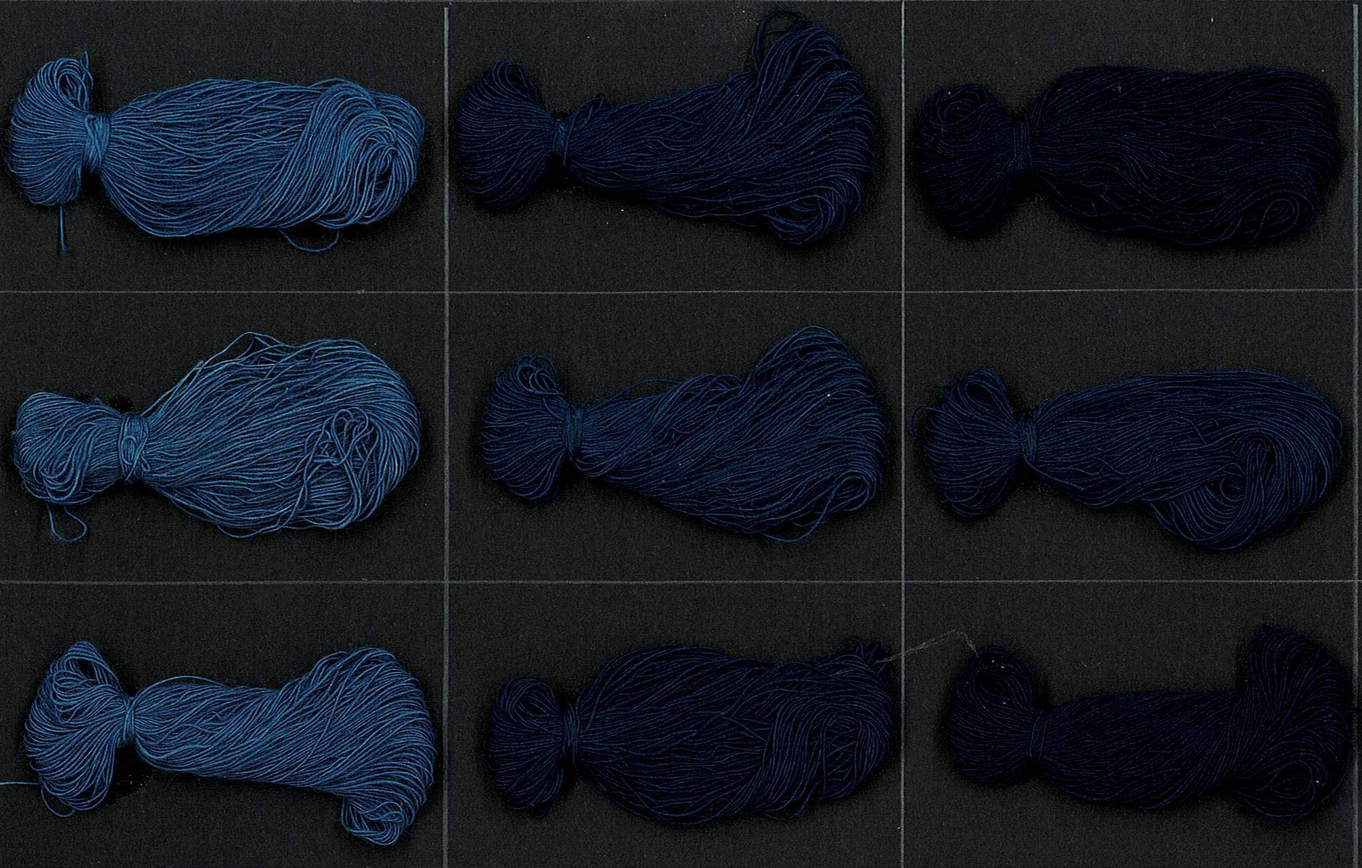
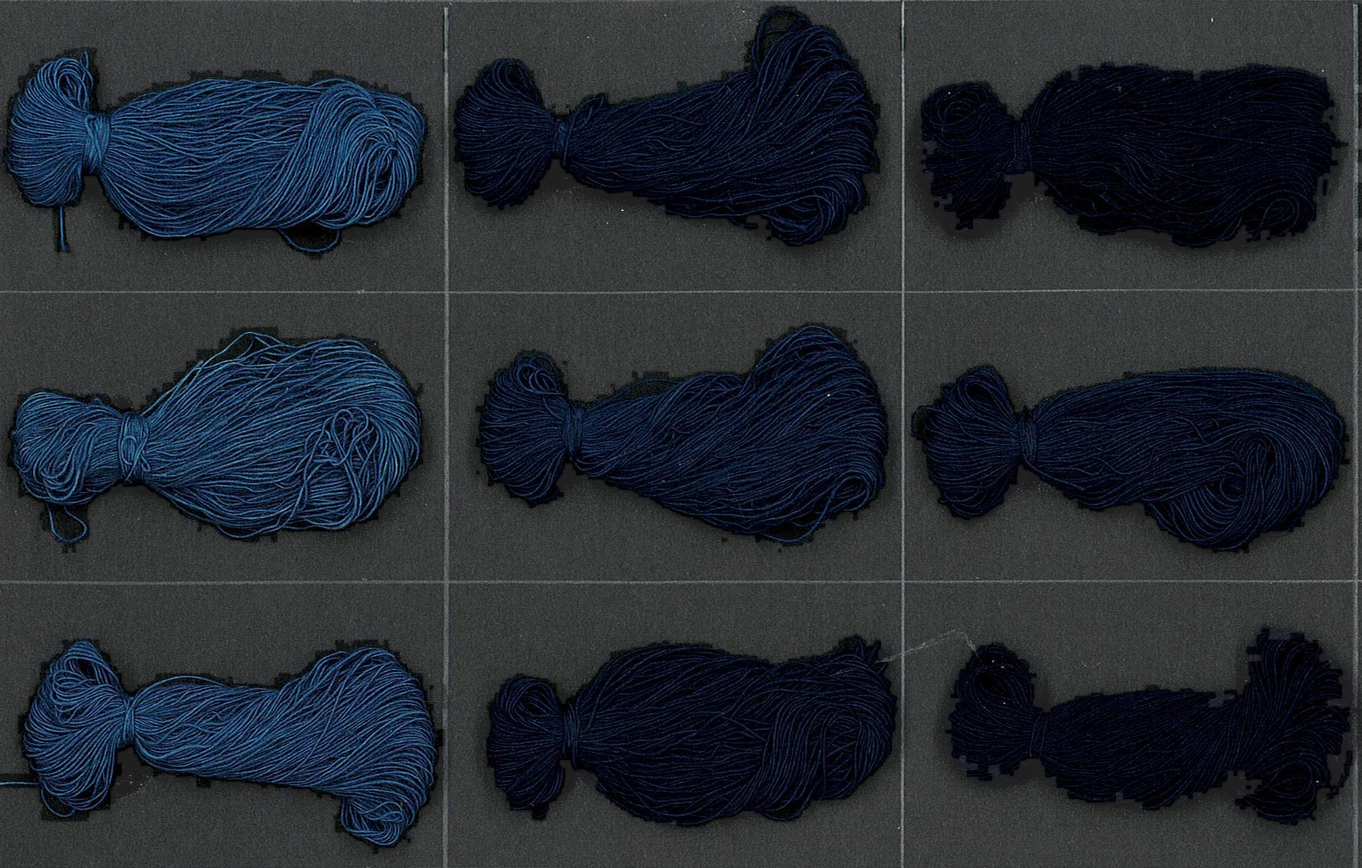
feat(dyeing): 실타래 비교 사진의 바탕만 약간 밝게 조정한다
- 고객 요청(2026-10-05, "실타래 배경이 어두운 색인데 약간 밝게"). scripts/brighten-skein-background.mjs 가 고객 원본 PNG 에서
  실타래 덩어리(채도>10 픽셀을 5px 팽창 · 구멍 메움 · 3px 침식)를 뺀 바탕만 채널당 +30 밝힌다(평균 밝기 31 → 61). 실타래 표본
  구역의 변화는 채널당 1 미만이며 실의 색은 손대지 않는다. 결과를 skeins-1-3-5-dips.webp 로 다시 저장한다.
- 캡션(Products.skeinCaption, 일곱 언어)에 바탕만 조정했고 실의 색은 손대지 않았음을 밝히고, 출처 기록(CLIENT_IMAGES · asset-manifest)과
  docs/blugene-visual-assets.md 11절 · docs/blugene-claims.md 에 처리 방법을 적는다.

diff --git a/src/components/blugene/SkeinComparison.tsx b/src/components/blugene/SkeinComparison.tsx
@@ -9,7 +9,8 @@ import { SKEIN_COMPARISON } from '@/data/blugene/dyedYarn';
  * 이 사이트의 방식으로 옮겼다. 사진은 SVG 에 내장된 무손실 PNG(1952×1244)를 꺼내 WebP 로 바꿔 두고, 열 이름(침염 횟수)과
  * 행 이름(시료)은 messages(SkeinComparison.*)에서 읽어 일곱 언어로 번역된다. 꾸러미의 영어 · 일본어 표기를 그대로 따랐다.
  * - 사진 속 3×3 칸은 가로 · 세로 모두 3등분이므로, 열 이름은 사진 폭을 3등분한 자리에, 행 이름은 사진 높이를 3등분한 자리에 놓는다.
- * - 색 비교 사진이라 next/image 재인코딩 없이(unoptimized) 그대로 보여 준다. 배경이 어두운 것은 원본 사진 그대로다.
+ * - 색 비교 사진이라 next/image 재인코딩 없이(unoptimized) 그대로 보여 준다. 바탕(실타래 주변의 어두운 판)은 2026-10-05 고객 요청으로
+ *   채널당 +30 밝게 조정했고 실 영역은 무변환이다(scripts/brighten-skein-background.mjs, 캡션에 밝힘).
  * - 시료 표기(Blugene 1 · Blugene 2)는 꾸러미의 표기 그대로이며 언어에 따라 바꾸지 않는다.
  */
 /* 침염 횟수 라벨 — 언어마다 단수 · 복수가 달라 횟수별 키로 둔다(검사 스크립트가 ICU 복수형을 읽지 못한다) */

diff --git a/scripts/build-blugene-assets.py b/scripts/build-blugene-assets.py
@@ -131,7 +131,7 @@ CLIENT_IMAGES: list[tuple[str, str]] = [
      "고객 제공 — 2026-09-11 채팅 첨부 HTML(Blugene_Carbon_Comparison.html)의 CSS 스프라이트(WebP 1536×1024, 3×2)에서 512px 정사각으로 잘라낸 타일: 화학 공장. 기술 페이지 「탄소의 여정」 카드 삽화. 카탈로그 자료가 아니며 생성 이미지로 보임"),
     # --- 염색 · 프린팅 「염색 횟수에 따른 발색 비교」 실타래 비교 사진 (2026-10-05, SVG 꾸러미 내장 PNG → WebP) ---
     ("performance/dyed-yarn/skeins-1-3-5-dips.webp",
-     "고객 제공 — 2026-10-05 채팅 첨부 SVG 꾸러미(Blugene_SVG_Package.zip)의 Blugene_Dyeing_Comparison_KO.svg 에 내장된 무손실 PNG(1952×1244)를 꺼내 WebP q92 로 바꾼 것(크기 · 색 무변환). 꾸러미 설명에 따르면 고객 보고서 CutisBio_Japan_Denim_Evaluation_20261005.pdf 7쪽 그림 5의 위쪽 3행을 자른 사진이다. 석유화학 인디고 · Blugene 1 · Blugene 2 × 1 · 3 · 5회 침염 3행 3열. 염색 · 프린팅 페이지 「염색 횟수에 따른 발색 비교」 맨 위(SkeinComparison). 원본 PNG 는 Blugene_Website_Brief/assets/mockups/2026-10-05-dyeing-comparison/"),
+     "고객 제공 — 2026-10-05 채팅 첨부 SVG 꾸러미(Blugene_SVG_Package.zip)의 Blugene_Dyeing_Comparison_KO.svg 에 내장된 무손실 PNG(1952×1244)를 꺼내 WebP q92 로 바꾼 것(크기 무변환). 2026-10-05 고객 요청으로 실타래 주변의 어두운 무채색 바탕만 채널당 +30 밝게 조정했고 실타래 영역(색이 있는 픽셀을 모아 채운 덩어리)은 무변환이다(scripts/brighten-skein-background.mjs). 꾸러미 설명에 따르면 고객 보고서 CutisBio_Japan_Denim_Evaluation_20261005.pdf 7쪽 그림 5의 위쪽 3행을 자른 사진이다. 석유화학 인디고 · Blugene 1 · Blugene 2 × 1 · 3 · 5회 침염 3행 3열. 염색 · 프린팅 페이지 「염색 횟수에 따른 발색 비교」 맨 위(SkeinComparison). 원본 PNG 는 Blugene_Website_Brief/assets/mockups/2026-10-05-dyeing-comparison/"),
     # --- 염색 · 프린팅 「염색 횟수에 따른 발색 비교」 염색사 사진 6장 (2026-10-05, SVG 내장 JPEG 를 90° 회전) ---
     ("performance/dyed-yarn/cycles-4-dyed.jpg",
      "고객 제공 — 2026-10-05 채팅 첨부 SVG(CutisBio_Dyed_Yarn_Korean_Editable.svg, Blugene_Website_Brief/assets/mockups/2026-10-05-dyed-yarn-figure.svg)에 내장된 PDF 5쪽 원본 JPEG 를 꺼내 SVG 의 배치대로 90° 돌린 것(크기 · 색 무변환, JPEG q95). 4회 염색 · 염색사 — 위에서부터 Blugene②-1 · 석유화학 인디고 · Blugene②-2. 염색 · 프린팅 페이지 「염색 횟수에 따른 발색 비교」(DyedYarnFigure)"),

diff --git a/docs/blugene-claims.md b/docs/blugene-claims.md
@@ -21,7 +21,7 @@
 | 견뢰도 | 세탁 / 일광 / 마찰 / 땀 4개 표 | p.6 Table 3-1 ~ 3-4 · KS K ISO 105-C06:2010 A2S / B02:2014 A1 M5 / X12:2016 / E04:2013 | 등급 문자열('4-5')을 그대로 출력. 경사/위사, 건/습, 산성/알칼리성 구분 유지. **낮은 값(#6 건마찰 1·2, #9 건마찰 2·2-3, #8 알칼리 땀 색변화 3)을 포함해 전부 표시**. |
 | 견뢰도 종합 서술 | "comparable performance" | p.6 3-B | "식물성·화학 인디고와 견줄 만한 수준"으로 번역. "모든 항목에서 우월"로 강화하지 않는다. |
 | 색조 조절 | 농도별 견본 12위치, 인디고 100% vs 인디고 94%+인디루빈 6% | p.7 Figure 4-1, 4-2 | 농도 수치가 원본에 없으므로 위치 기준 구분자(A1~B6)만 사용. 두 조성 사이를 보간하지 않는다. |
-| 염색 횟수별 발색 | ① 실타래 비교: 석유화학 인디고 / Blugene 1 / Blugene 2 × 1 · 3 · 5회 침염 (사진 한 장, 2026-10-05 고객 제공 SVG 꾸러미 — 고객 보고서 7쪽 그림 5 위쪽 3행; 표기는 꾸러미의 KO · EN · JA 그대로, `SkeinComparison` · `SkeinComparison.*` · `Products.skeinCaption`) ② 염색사 사진표: Blugene1 / 석유화학 인디고 / Blugene2 염색사 × 4 · 6 · 8회 염색 × 염색사 · 1회 세탁 (화면 표기 Blugene1 · Blugene2 는 2026-10-05 고객 지정, 고객 자료의 원표기는 Blugene②-1 · ②-2) | 고객 제공 사진 6장(2026-10-05 채팅 첨부 SVG 에 내장된 PDF 5쪽 JPEG) — `DyedYarnFigure`, `DyedYarn.*` · `Products.cycles*` | 2026-10-05 고객 요청으로 카탈로그 p.8 Figure 5-1(화학 분말 / 바이오 분말 / 바이오 잉크 × 1~4회, "Digital Printing Ink > Chemical Indigo ≈ Powder BioIndigo" 인용)을 화면에서 빼고 이 사진표로 바꿨다(도판 파일은 남김). 시료 코드 · 조건은 고객 자료의 표기 그대로이며, 염색 조건 · 세탁 방법 · 측정값은 자료에 없어 적지 않는다. 사진의 색 농담을 K/S · ΔE 로 환산하지 않고 "모든 조건에서의 성능 우위를 뜻하지 않는다"를 cyclesNote 로 밝힌다. 표의 글자는 messages 에서 번역된다. |
+| 염색 횟수별 발색 | ① 실타래 비교: 석유화학 인디고 / Blugene 1 / Blugene 2 × 1 · 3 · 5회 침염 (사진 한 장, 2026-10-05 고객 제공 SVG 꾸러미 — 고객 보고서 7쪽 그림 5 위쪽 3행; 표기는 꾸러미의 KO · EN · JA 그대로. 바탕만 +30 밝게 조정했고 실 영역은 무변환이며 캡션에 밝힘, `SkeinComparison` · `SkeinComparison.*` · `Products.skeinCaption`) ② 염색사 사진표: Blugene1 / 석유화학 인디고 / Blugene2 염색사 × 4 · 6 · 8회 염색 × 염색사 · 1회 세탁 (화면 표기 Blugene1 · Blugene2 는 2026-10-05 고객 지정, 고객 자료의 원표기는 Blugene②-1 · ②-2) | 고객 제공 사진 6장(2026-10-05 채팅 첨부 SVG 에 내장된 PDF 5쪽 JPEG) — `DyedYarnFigure`, `DyedYarn.*` · `Products.cycles*` | 2026-10-05 고객 요청으로 카탈로그 p.8 Figure 5-1(화학 분말 / 바이오 분말 / 바이오 잉크 × 1~4회, "Digital Printing Ink > Chemical Indigo ≈ Powder BioIndigo" 인용)을 화면에서 빼고 이 사진표로 바꿨다(도판 파일은 남김). 시료 코드 · 조건은 고객 자료의 표기 그대로이며, 염색 조건 · 세탁 방법 · 측정값은 자료에 없어 적지 않는다. 사진의 색 농담을 K/S · ΔE 로 환산하지 않고 "모든 조건에서의 성능 우위를 뜻하지 않는다"를 cyclesNote 로 밝힌다. 표의 글자는 messages 에서 번역된다. |
 | 제품명 · CAS | Bio Indigo Dye Powder (Microbial Fermentation) · CAS 482-89-3 | p.11 | 웹 표시명(Blugene Indigo Powder)과 원문 제품명을 함께 표시 |
 | 연락처 | contact@cutisbio.com · +82-70-4914-2525 · 8F Apgujeong B/D, 842 Nonhyeon-ro, Gangnam-gu, Seoul 06025, Korea | p.11–12 | 푸터·문의 화면에 그대로 |
 
